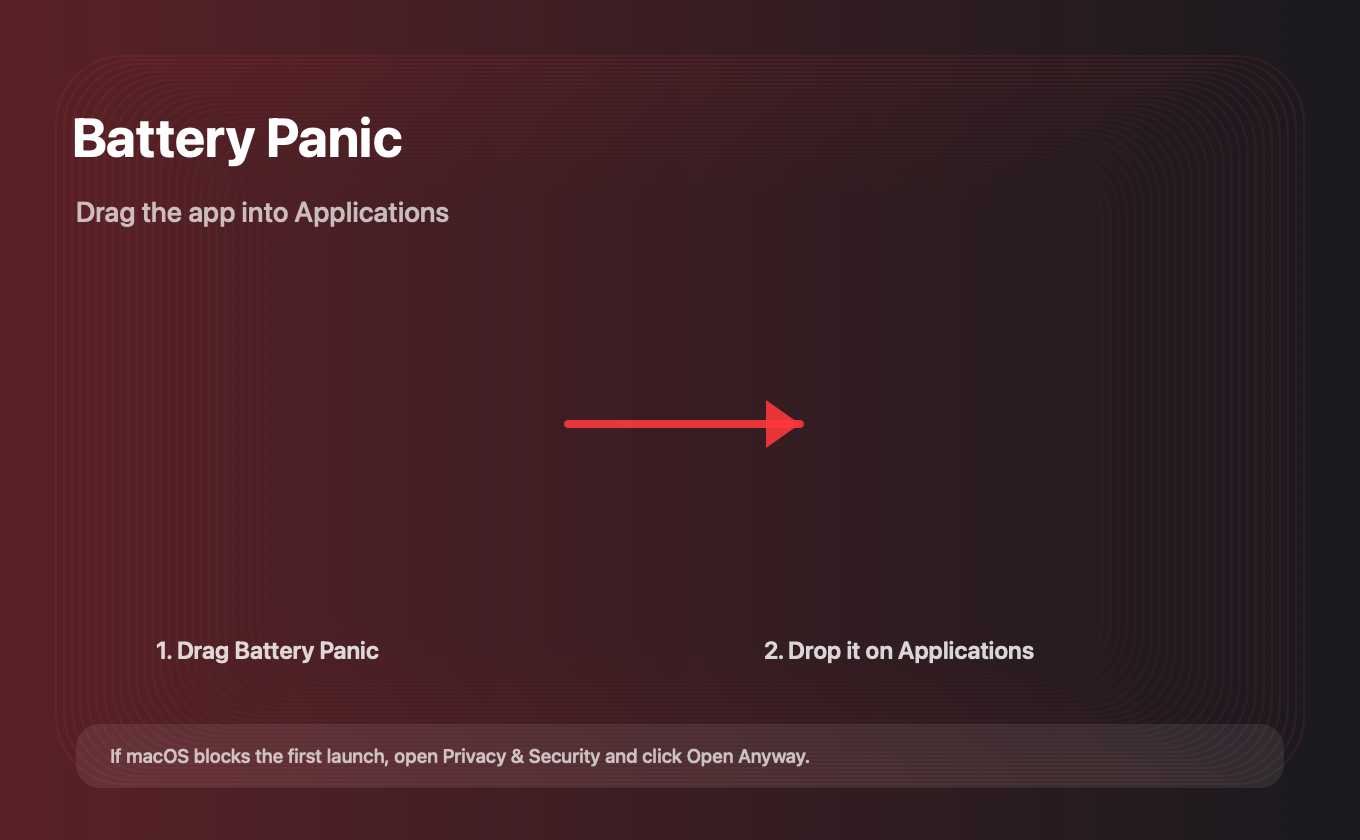
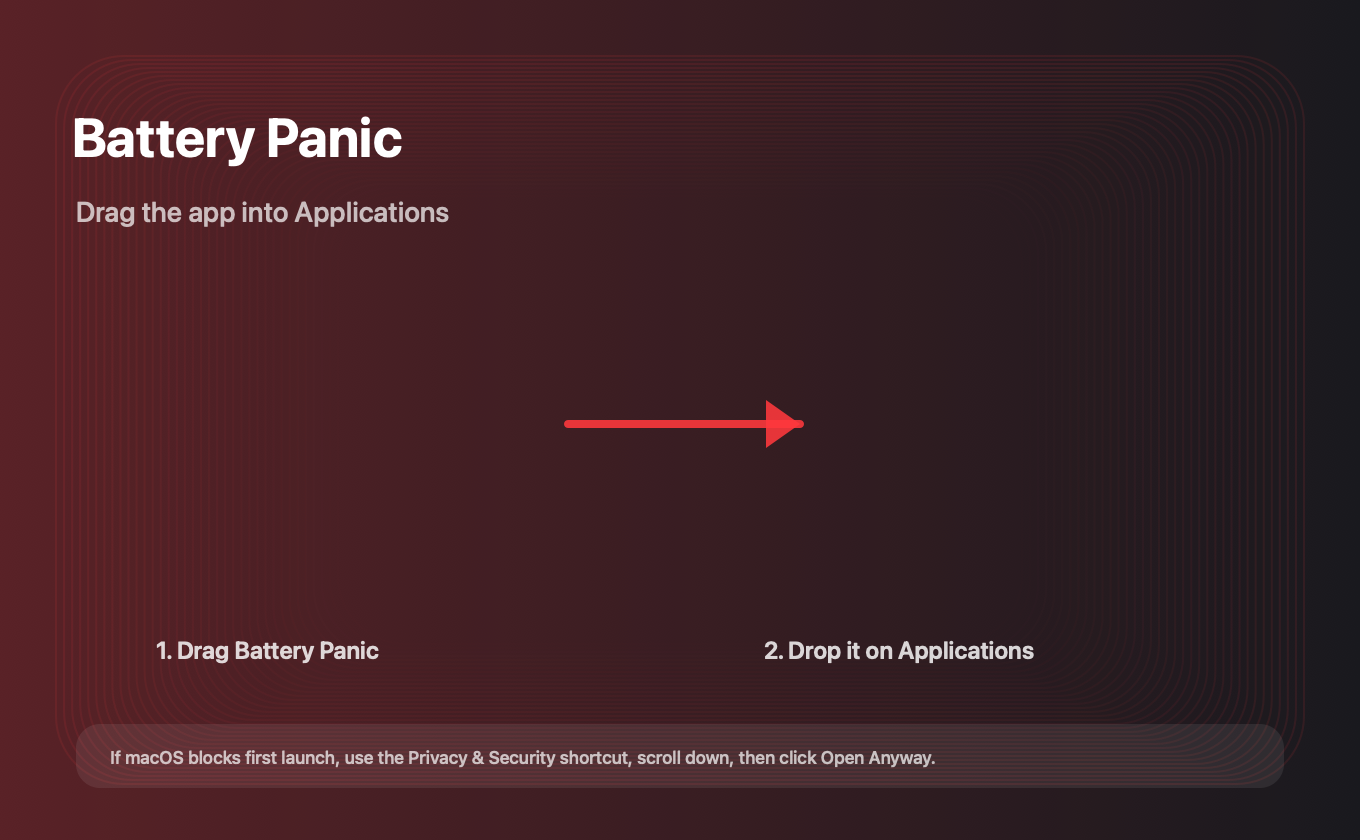
Polish onboarding layout and DMG privacy shortcut

Changed region(s): [[0.0926, 0.8667, 0.6794, 0.9286]]

diff --git a/Sources/BatteryPanicApp/Settings/OnboardingWindowController.swift b/Sources/BatteryPanicApp/Settings/OnboardingWindowController.swift
@@ -165,12 +165,31 @@ final class OnboardingWindowController: NSWindowController, NSWindowDelegate {
     }
 
     private func makeLoginTile() -> NSView {
-        let tile = makeInfoTile(symbolName: "power", title: "Start at login", body: "Keep Battery Panic ready automatically.", tint: .systemGreen)
+        let tile = makeCard(width: 258, height: 118, radius: 18)
+
+        let icon = makeSymbol("power", tint: .systemGreen)
+        icon.translatesAutoresizingMaskIntoConstraints = false
+        tile.addSubview(icon)
+
+        let labels = NSStackView()
+        labels.orientation = .vertical
+        labels.alignment = .leading
+        labels.spacing = 4
+        labels.translatesAutoresizingMaskIntoConstraints = false
+        labels.addArrangedSubview(makeLabel("Start at login", size: 13, weight: .semibold, color: .labelColor, lines: 1))
+        labels.addArrangedSubview(makeLabel("Keep Battery Panic ready automatically.", size: 12, weight: .regular, color: .secondaryLabelColor, lines: 2))
+        tile.addSubview(labels)
+
         launchAtLoginSwitch.target = self
         launchAtLoginSwitch.action = #selector(launchAtLoginChanged)
         launchAtLoginSwitch.translatesAutoresizingMaskIntoConstraints = false
         tile.addSubview(launchAtLoginSwitch)
         NSLayoutConstraint.activate([
+            icon.leadingAnchor.constraint(equalTo: tile.leadingAnchor, constant: 18),
+            icon.centerYAnchor.constraint(equalTo: tile.centerYAnchor),
+            labels.leadingAnchor.constraint(equalTo: icon.trailingAnchor, constant: 12),
+            labels.trailingAnchor.constraint(lessThanOrEqualTo: launchAtLoginSwitch.leadingAnchor, constant: -14),
+            labels.centerYAnchor.constraint(equalTo: tile.centerYAnchor),
             launchAtLoginSwitch.trailingAnchor.constraint(equalTo: tile.trailingAnchor, constant: -18),
             launchAtLoginSwitch.centerYAnchor.constraint(equalTo: tile.centerYAnchor)
         ])

diff --git a/docs/index.html b/docs/index.html
@@ -667,14 +667,24 @@
         animation-delay: 120ms;
       }
 
+      .hero-art-warning {
+        animation: warningPulse 2.8s ease-in-out infinite;
+      }
+
       body.reveal-ready [data-reveal] {
         opacity: 0;
-        transform: translateY(22px);
-        transition: opacity 620ms ease, transform 620ms ease;
+        filter: blur(7px);
+        transform: translateY(30px) scale(0.985);
+        transition:
+          opacity 720ms ease,
+          filter 720ms ease,
+          transform 720ms cubic-bezier(0.2, 0.75, 0.2, 1);
+        transition-delay: var(--reveal-delay, 0ms);
       }
 
       body.reveal-ready [data-reveal].is-visible {
         opacity: 1;
+        filter: blur(0);
         transform: translateY(0);
       }
 
@@ -686,6 +696,17 @@
         to {
           opacity: 1;
           transform: translateY(0);
+        }
+      }
+
+      @keyframes warningPulse {
+        0%, 100% {
+          box-shadow: 0 0 42px rgba(255, 64, 80, 0.20);
+          transform: translate(-50%, -50%) scale(1);
+        }
+        50% {
+          box-shadow: 0 0 76px rgba(255, 64, 80, 0.36);
+          transform: translate(-50%, -50%) scale(1.015);
         }
       }
     }
@@ -983,7 +1004,10 @@
         }
       }, { threshold: 0.14, rootMargin: "0px 0px -8% 0px" });
 
-      document.querySelectorAll("[data-reveal]").forEach((element) => observer.observe(element));
+      document.querySelectorAll("[data-reveal]").forEach((element, index) => {
+        element.style.setProperty("--reveal-delay", `${Math.min(index * 45, 240)}ms`);
+        observer.observe(element);
+      });
 
       window.setTimeout(() => {
         document.querySelectorAll("[data-reveal]").forEach((element) => {

diff --git a/scripts/create_dmg_background.swift b/scripts/create_dmg_background.swift
@@ -76,9 +76,9 @@ let noteRect = rect(38, 26, 604, 32)
 NSColor.white.withAlphaComponent(0.08).setFill()
 NSBezierPath(roundedRect: noteRect, xRadius: px(12), yRadius: px(12)).fill()
 drawText(
-    "If macOS blocks the first launch, open Privacy & Security and click Open Anyway.",
+    "If macOS blocks first launch, use the Privacy & Security shortcut, scroll down, then click Open Anyway.",
     at: point(55, 36),
-    font: .systemFont(ofSize: px(9.5), weight: .medium),
+    font: .systemFont(ofSize: px(8.8), weight: .medium),
     color: NSColor.white.withAlphaComponent(0.70)
 )
 

diff --git a/docs/INSTALL.md b/docs/INSTALL.md
@@ -8,6 +8,7 @@ Battery Panic is meant to be installed like a normal macOS app. You do not need 
 2. Open the downloaded DMG file.
 3. Drag `Battery Panic.app` into the **Applications** shortcut.
 4. Open Battery Panic from **Applications**.
+5. If macOS blocks the first launch, use the `Open Privacy & Security` shortcut inside the DMG or the link below.
 
 ## Alternative: Install with the ZIP
 

diff --git a/README.md b/README.md
@@ -24,6 +24,7 @@ DMG install:
 2. Open the DMG.
 3. Drag `Battery Panic.app` into **Applications**.
 4. Open Battery Panic from **Applications**.
+5. If macOS blocks the first launch, use the `Open Privacy & Security` shortcut inside the DMG or the link below.
 
 ZIP fallback:
 
